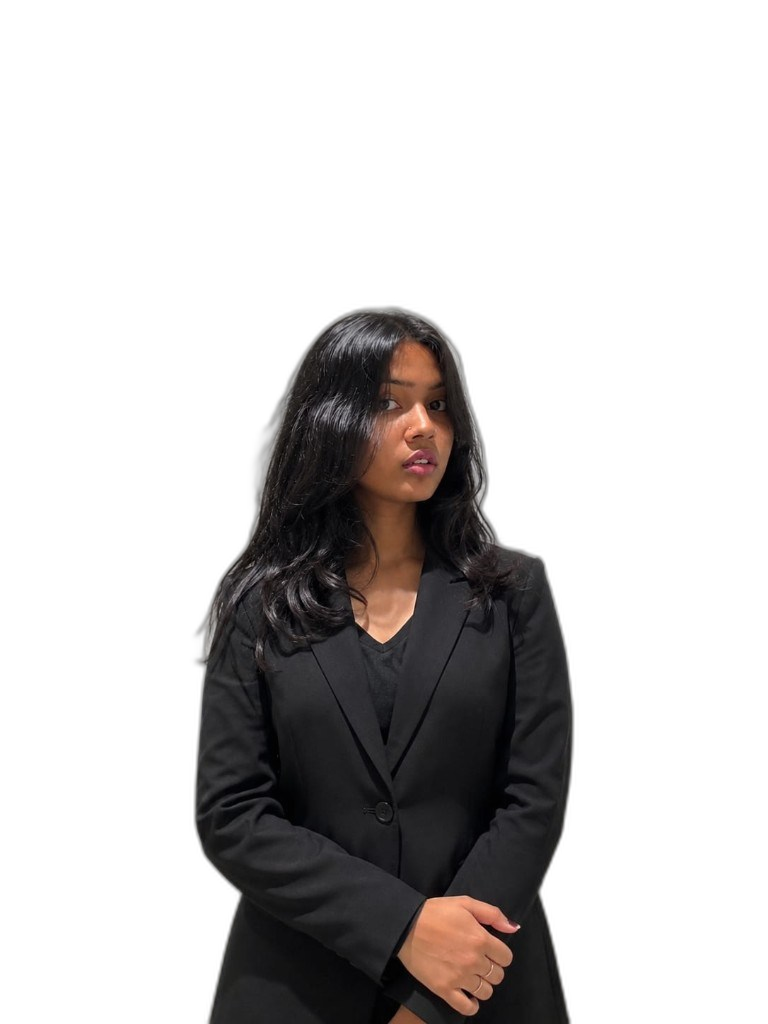
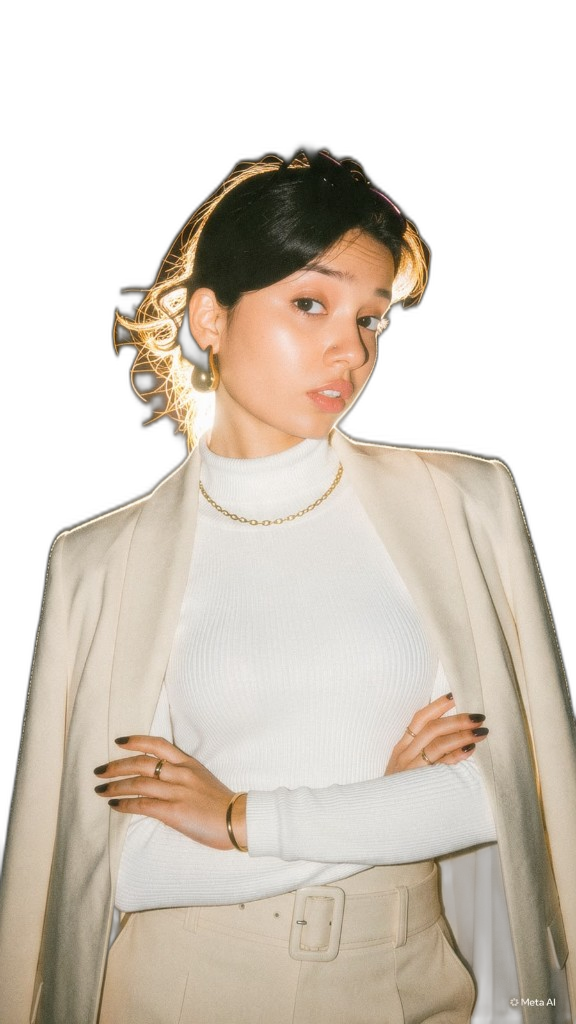
Replace the About portrait with a transparent cutout.
Use the new studio photo without the black background so the page color shows through.

diff --git a/src/data.js b/src/data.js
@@ -237,7 +237,7 @@ export const ACADEMY_GALLERY = [
 export const IMAGES = {
   hero: "/images/hero-portrait.jpg",
   heroWide: "/images/hero-wide.jpg",
-  about: "/images/about-portrait.png?v=cutout1",
+  about: "/images/about-portrait.png?v=cutout2",
   academy: "/images/academy.jpg?v=clr1",
   contact: "/images/contact-portrait.jpg?v=3",
 };
